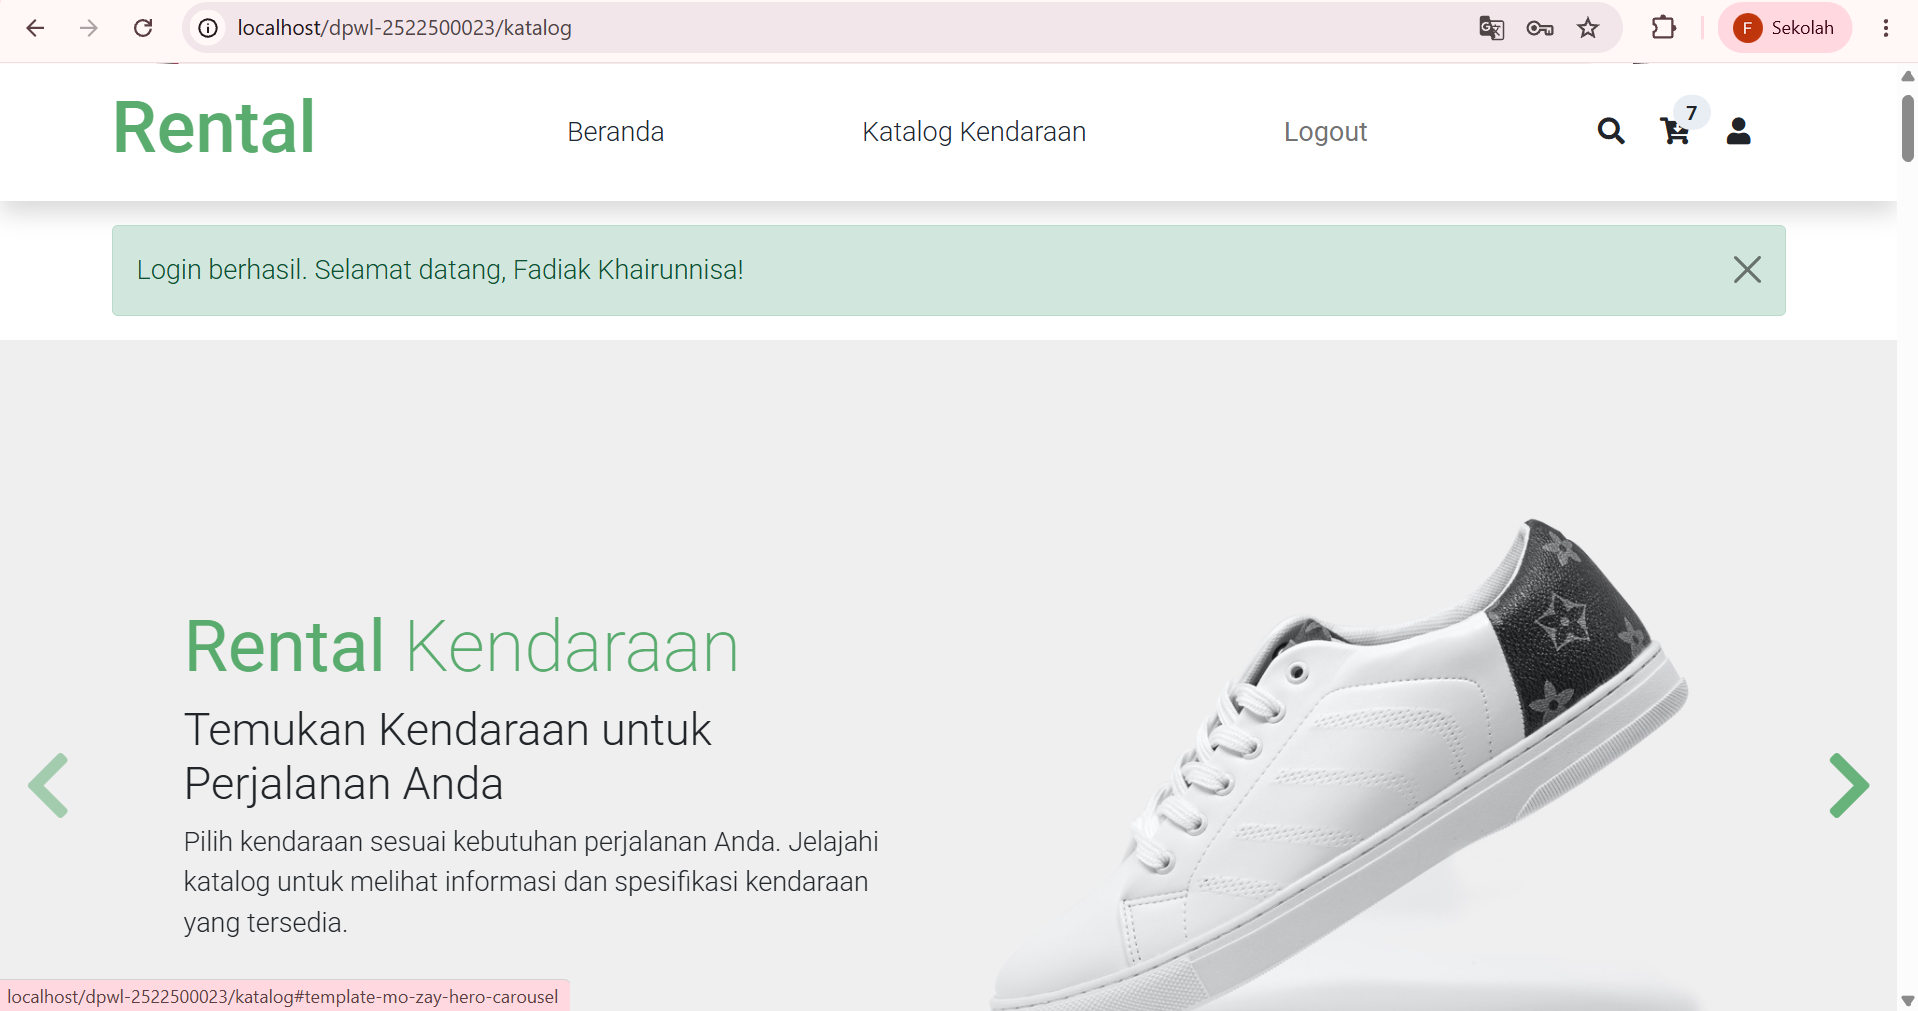
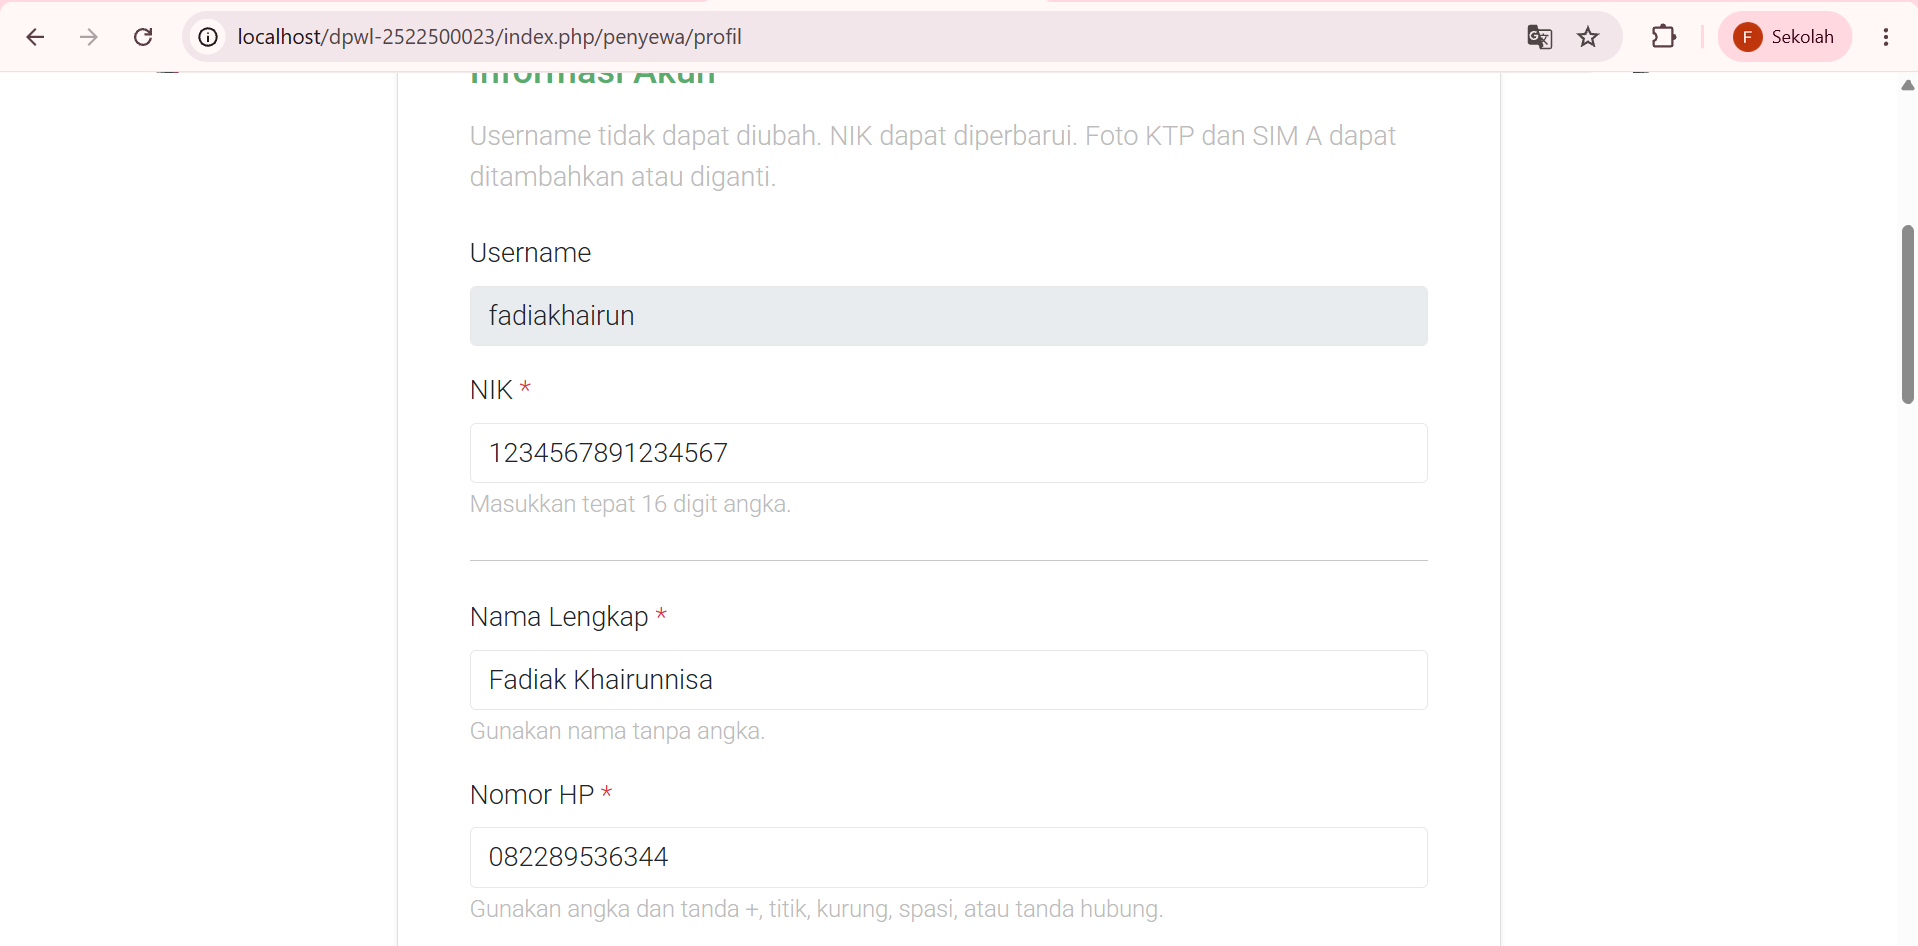
up

diff --git a/pertemuan-06/README.md b/pertemuan-06/README.md
@@ -14,5 +14,3 @@
 ![Hasil Pengujian 6](dokumentasi/HasilPengujian6.png)
 7. Hasil Pengujian 7
 ![Hasil Pengujian 7](dokumentasi/HasilPengujian7.png)
-8. Hasil Pengujian 8
-![Hasil pengujian 8](dokumentasi/HasilPengujian8.png)
